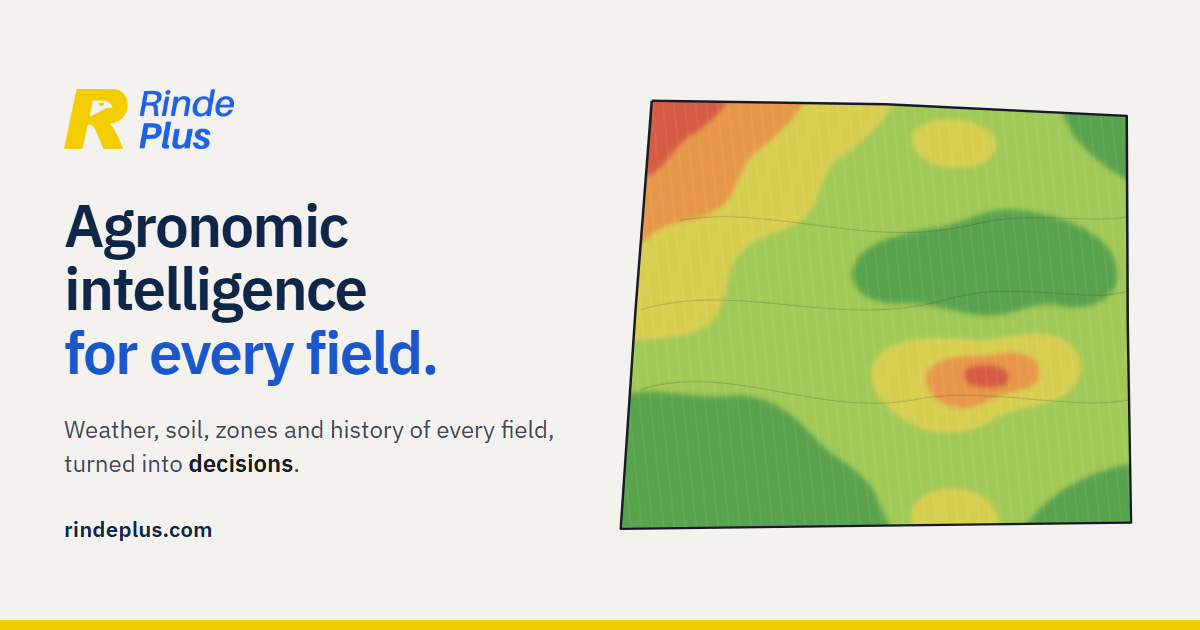
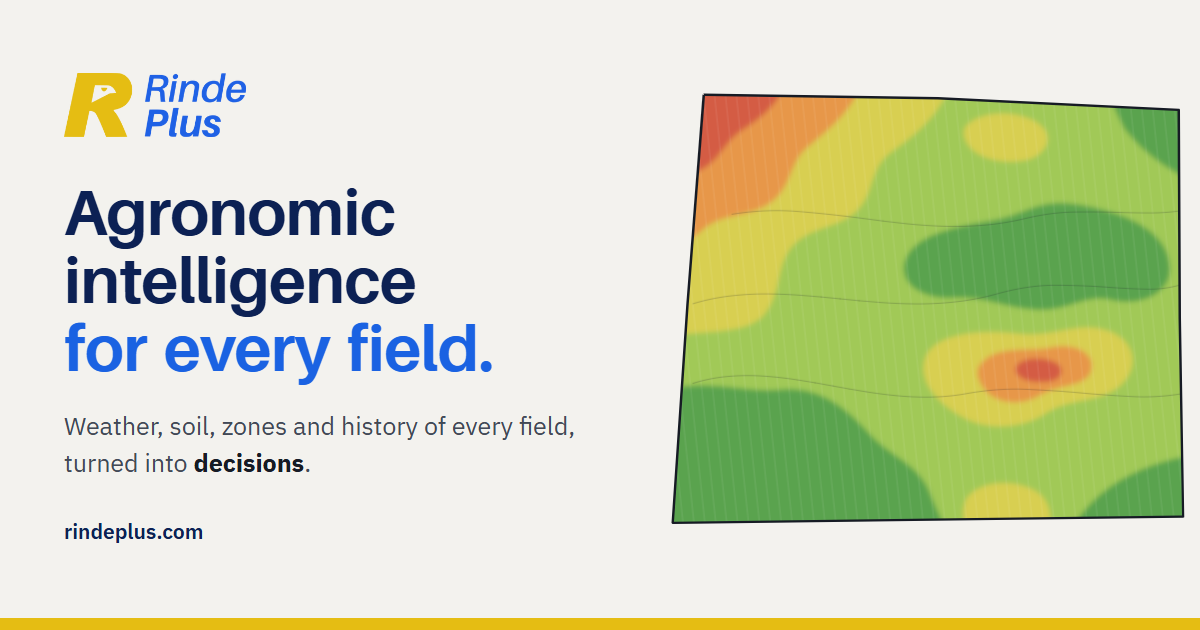
feat(og): share images per page with brand colors and font
Home, about and learn get their own Open Graph image in each language.
scripts/og/generar.py regenerates them with Edge.

diff --git a/scripts/og/generar.py b/scripts/og/generar.py
@@ -1,0 +1,191 @@
+"""Genera las imágenes para compartir links (Open Graph, 1200×630).
+
+Una por página (inicio, nosotros, educacion) y por idioma, en public/og/.
+Arma cada imagen como HTML con las fuentes y el logo del sitio y la
+captura con Edge sin ventana.
+
+    python scripts/og/generar.py
+
+Usa Microsoft Edge (Windows). Si cambian los textos, los colores o el logo,
+editar este archivo y volver a correrlo.
+"""
+
+import html
+import shutil
+import subprocess
+import tempfile
+from pathlib import Path
+
+RAIZ = Path(__file__).resolve().parents[2]
+SALIDA = RAIZ / 'public' / 'og'
+EDGE = r'C:\Program Files (x86)\Microsoft\Edge\Application\msedge.exe'
+
+# Colores del sitio (src/index.css) y del manual de marca.
+MARINO = '#0c2154'
+AZUL = '#1a62e2'
+AMARILLO = '#e5bd13'
+FONDO = '#f3f2ee'
+TARJETA = '#fbfaf8'
+TINTA = '#161b24'
+GRIS = '#424956'
+MOMENTOS = {
+    'planificar': '#7a4b26',
+    'preparar': '#2a6f73',
+    'fertilizar': '#1a62e2',
+    'acompanar': '#3b6e25',
+    'cerrar': '#8a5300',
+}
+MAPA = {'alto': '#4fa045', 'alto-claro': '#9cc94f', 'medio': '#d8cf4a', 'bajo': '#e8933f', 'bajo-fuerte': '#d4533b'}
+
+TEXTOS = {
+    'es': {
+        'inicio': ('Inteligencia agronómica', 'para cada lote.', 'Clima, suelo, ambientes e historia de cada lote, convertidos en <b>decisiones</b>.'),
+        'nosotros': ('Somos Rinde Plus', None, 'Mezclamos conocimiento agronómico y tecnología para que cada lote se decida con datos y con criterio.'),
+        'educacion': ('Lo que hay detrás', 'de cada número', 'Los conceptos agronómicos detrás de cada decisión del lote y cómo se ven en Rinde Plus.'),
+        'lotes': ('Lote 14', 'Lote 15'),
+        'conceptos': [
+            ('planificar', 'Ambientes'), ('planificar', 'Ley del mínimo'), ('preparar', 'Agua útil'),
+            ('preparar', 'Carry-over de herbicidas'), ('fertilizar', 'Dosis óptima económica'), ('acompanar', 'Balance hídrico'),
+            ('acompanar', 'DPV'), ('acompanar', 'NDVI'), ('cerrar', 'Rinde potencial y brecha'),
+        ],
+    },
+    'en': {
+        'inicio': ('Agronomic intelligence', 'for every field.', 'Weather, soil, zones and history of every field, turned into <b>decisions</b>.'),
+        'nosotros': ('We are Rinde Plus', None, 'We combine agronomic knowledge and technology so every field is decided with data and with judgment.'),
+        'educacion': ('What’s behind', 'every number', 'The agronomic concepts behind every field decision and how they look in Rinde Plus.'),
+        'lotes': ('Field 14', 'Field 15'),
+        'conceptos': [
+            ('planificar', 'Management zones'), ('planificar', 'Law of the minimum'), ('preparar', 'Available water'),
+            ('preparar', 'Herbicide carryover'), ('fertilizar', 'Economic optimum rate'), ('acompanar', 'Water balance'),
+            ('acompanar', 'VPD'), ('acompanar', 'NDVI'), ('cerrar', 'Yield potential and gap'),
+        ],
+    },
+    'pt': {
+        'inicio': ('Inteligência agronômica', 'para cada talhão.', 'Clima, solo, ambientes e histórico de cada talhão, convertidos em <b>decisões</b>.'),
+        'nosotros': ('Somos a Rinde Plus', None, 'Unimos conhecimento agronômico e tecnologia para que cada talhão seja decidido com dados e com critério.'),
+        'educacion': ('O que há por trás', 'de cada número', 'Os conceitos agronômicos por trás de cada decisão do talhão e como aparecem na Rinde Plus.'),
+        'lotes': ('Talhão 14', 'Talhão 15'),
+        'conceptos': [
+            ('planificar', 'Ambientes'), ('planificar', 'Lei do mínimo'), ('preparar', 'Água disponível'),
+            ('preparar', 'Carryover de herbicidas'), ('fertilizar', 'Dose econômica'), ('acompanar', 'Balanço hídrico'),
+            ('acompanar', 'DPV'), ('acompanar', 'NDVI'), ('cerrar', 'Potencial e lacuna'),
+        ],
+    },
+}
+
+
+def dos_lotes(nombres):
+    """Los dos lotes vecinos de Nosotros (mismo dibujo que AboutPage.jsx)."""
+    a, b = (html.escape(n) for n in nombres)
+    m = MAPA
+    return f'''
+<svg viewBox="0 0 480 360" width="520" height="390">
+  <defs>
+    <clipPath id="A"><path d="M20 40 L250 24 L232 330 L12 316 Z"/></clipPath>
+    <clipPath id="B"><path d="M250 24 L466 46 L458 322 L232 330 Z"/></clipPath>
+    <pattern id="sA" width="9" height="9" patternUnits="userSpaceOnUse" patternTransform="rotate(-4)"><line x1="0" y1="0" x2="0" y2="9" stroke="#fff" stroke-opacity=".2"/></pattern>
+    <pattern id="sB" width="9" height="9" patternUnits="userSpaceOnUse" patternTransform="rotate(84)"><line x1="0" y1="0" x2="0" y2="9" stroke="#fff" stroke-opacity=".2"/></pattern>
+  </defs>
+  <g clip-path="url(#A)">
+    <rect width="480" height="360" fill="{m['alto']}"/>
+    <path fill="{m['alto-claro']}" d="M0 176 C 80 146, 160 206, 260 166 V360 H0 Z"/>
+    <path fill="{m['medio']}" d="M0 262 C 80 242, 170 292, 260 252 V360 H0 Z"/>
+    <rect width="480" height="360" fill="url(#sA)"/>
+  </g>
+  <g clip-path="url(#B)">
+    <rect width="480" height="360" fill="{m['bajo']}"/>
+    <path fill="{m['medio']}" d="M220 0 H480 V112 C 400 142, 320 92, 220 132 Z"/>
+    <ellipse fill="{m['bajo-fuerte']}" cx="372" cy="252" rx="72" ry="44"/>
+    <rect width="480" height="360" fill="url(#sB)"/>
+  </g>
+  <path d="M20 40 L250 24 L232 330 L12 316 Z" fill="none" stroke="{TINTA}" stroke-width="2.5" stroke-linejoin="round"/>
+  <path d="M250 24 L466 46 L458 322 L232 330 Z" fill="none" stroke="{TINTA}" stroke-width="2.5" stroke-linejoin="round"/>
+  <g font-family="IBM Plex Sans" font-size="13" font-weight="600" fill="{TINTA}">
+    <rect x="36" y="52" width="84" height="26" rx="13" fill="{TARJETA}" opacity=".92"/>
+    <text x="78" y="70" text-anchor="middle">{a}</text>
+    <rect x="364" y="284" width="84" height="26" rx="13" fill="{TARJETA}" opacity=".92"/>
+    <text x="406" y="302" text-anchor="middle">{b}</text>
+  </g>
+</svg>'''
+
+
+def conceptos(lista):
+    """Los nueve conceptos de Educación, como en el índice de la página."""
+    items = ''.join(
+        f'<li><span class="punto" style="background:{MOMENTOS[mo]}"></span>'
+        f'<span class="num">{i + 1:02d}</span>{html.escape(t)}</li>'
+        for i, (mo, t) in enumerate(lista)
+    )
+    return f'<ol class="conceptos">{items}</ol>'
+
+
+def pagina(lang, tipo, fuentes, logo, mapa):
+    t = TEXTOS[lang]
+    a, b, bajada = t[tipo]
+    italica = tipo != 'inicio'
+    if tipo == 'inicio':
+        visual = f'<img class="mapa" src="{mapa}" alt="">'
+    elif tipo == 'nosotros':
+        visual = dos_lotes(t['lotes'])
+    else:
+        visual = conceptos(t['conceptos'])
+    titulo = html.escape(a) + (f'<br><span class="acento">{html.escape(b)}</span>' if b else '')
+    return f'''<!doctype html><html><head><meta charset="utf-8"><style>
+@font-face {{ font-family: 'Aileron'; font-weight: 700; src: url('{fuentes}/aileron-latin-700-normal.woff2'); }}
+@font-face {{ font-family: 'Aileron'; font-weight: 700; font-style: italic; src: url('{fuentes}/Aileron-BoldItalic.woff2'); }}
+@font-face {{ font-family: 'IBM Plex Sans'; font-weight: 400 700; src: url('{fuentes}/ibm-plex-sans-latin.woff2'); }}
+* {{ box-sizing: border-box; margin: 0; }}
+html, body {{ width: 1200px; height: 630px; overflow: hidden; }}
+body {{ position: relative; display: grid; grid-template-columns: 560px 1fr; align-items: center; gap: 40px;
+  padding: 0 64px 12px; background: {FONDO}; font-family: 'IBM Plex Sans'; color: {TINTA}; }}
+body::after {{ content: ''; position: absolute; left: 0; right: 0; bottom: 0; height: 12px; background: {AMARILLO}; }}
+.logo {{ display: block; height: 64px; margin-bottom: 44px; }}
+h1 {{ font-family: 'Aileron'; font-weight: 700; font-size: {64 if tipo == 'inicio' else 66}px; line-height: 1.06;
+  letter-spacing: -0.01em; word-spacing: 0.08em; color: {AZUL if tipo == 'nosotros' else MARINO}; {'font-style: italic;' if italica else ''} }}
+h1 .acento {{ color: {AZUL}; }}
+p {{ margin-top: 24px; font-size: 25px; line-height: 1.45; color: {GRIS}; }}
+p b {{ color: {TINTA}; }}
+.url {{ margin-top: 36px; font-size: 21px; font-weight: 600; color: {MARINO}; }}
+.visual {{ display: grid; place-items: center; }}
+.mapa {{ width: 530px; }}
+.conceptos {{ list-style: none; padding: 0; display: grid; gap: 10px; width: 100%; }}
+.conceptos li {{ display: flex; align-items: center; gap: 12px; padding: 11px 18px; border-radius: 12px;
+  background: {TARJETA}; box-shadow: 0 1px 3px rgba(22,27,36,.1), 0 1px 2px rgba(22,27,36,.05);
+  font-family: 'Aileron'; font-weight: 700; font-size: 21px; color: {TINTA}; }}
+.conceptos .punto {{ width: 10px; height: 10px; border-radius: 50%; flex: none; }}
+.conceptos .num {{ font-family: 'IBM Plex Sans'; font-weight: 500; font-size: 16px; color: #525a68; width: 24px; }}
+</style></head><body>
+<div>
+  <img class="logo" src="{logo}" alt="">
+  <h1>{titulo}</h1>
+  <p>{bajada}</p>
+  <div class="url">rindeplus.com</div>
+</div>
+<div class="visual">{visual}</div>
+</body></html>'''
+
+
+def main():
+    tmp = Path(tempfile.mkdtemp(prefix='rp-og-'))
+    try:
+        fuentes = (RAIZ / 'public' / 'fonts').as_uri()
+        logo = (RAIZ / 'src' / 'assets' / 'rindeplus-logo-light.webp').as_uri()
+        mapa = (Path(__file__).parent / 'mapa-lote.png').as_uri()
+        for lang in TEXTOS:
+            for tipo in ('inicio', 'nosotros', 'educacion'):
+                archivo = tmp / f'{tipo}-{lang}.html'
+                archivo.write_text(pagina(lang, tipo, fuentes, logo, mapa), encoding='utf-8')
+                nombre = f'rindeplus-{lang}.png' if tipo == 'inicio' else f'rindeplus-{tipo}-{lang}.png'
+                subprocess.run(
+                    [EDGE, '--headless=new', '--disable-gpu', '--hide-scrollbars', '--force-device-scale-factor=1',
+                     '--window-size=1200,630', '--virtual-time-budget=3000', '--allow-file-access-from-files',
+                     f'--screenshot={SALIDA / nombre}', archivo.as_uri()],
+                    check=True, capture_output=True,
+                )
+                print('ok', nombre)
+    finally:
+        shutil.rmtree(tmp, ignore_errors=True)
+
+
+if __name__ == '__main__':
+    main()
